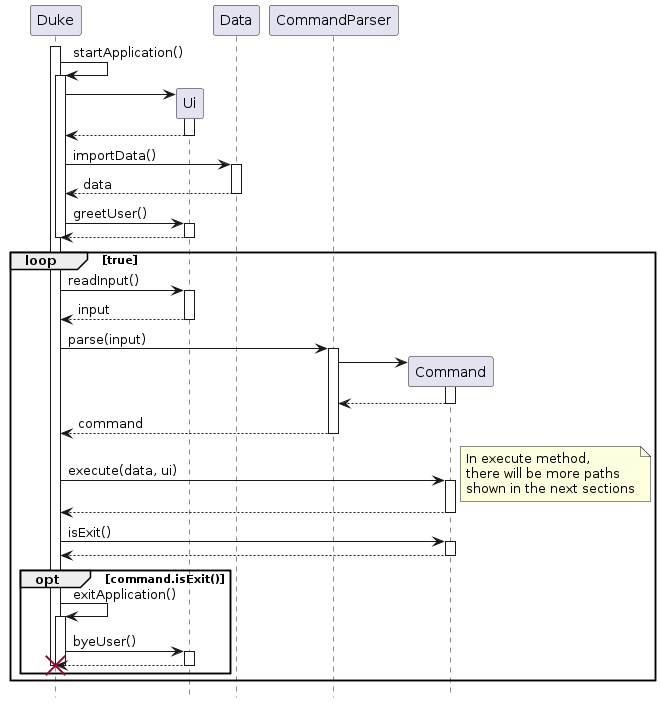
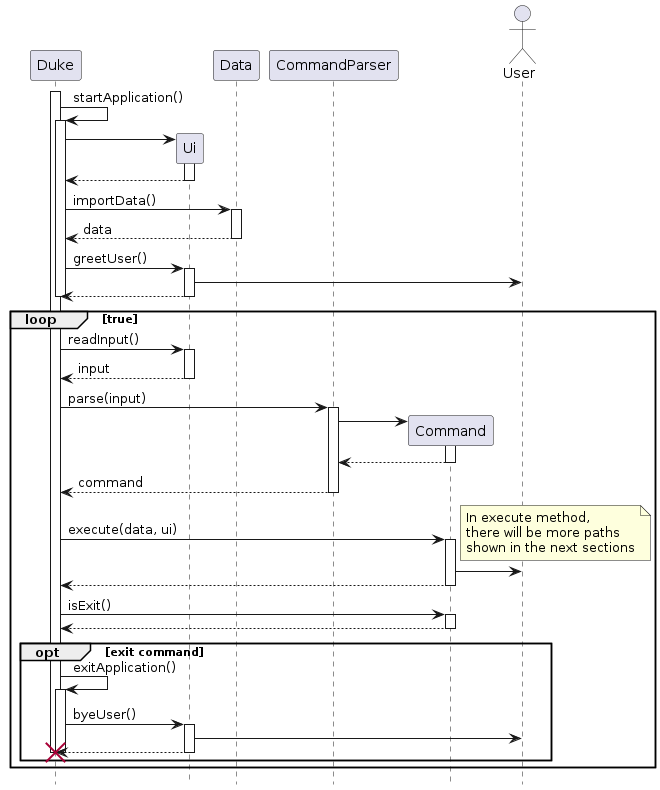
Update developer guide and diagrams

diff --git a/src/main/java/seedu/duke/command/CommandParser.java b/src/main/java/seedu/duke/command/CommandParser.java
@@ -37,29 +37,7 @@ public class CommandParser {
         CommandEnum commandName = getCommandName(input);
 
         // Assign the command class based on the command input by the user.
-        Command command;
-        switch (commandName) {
-        case BUDGET:
-            command = new BudgetCommand();
-            break;
-        case DEPOSIT:
-            command = new DepositCommand();
-            break;
-        case EXPENSE:
-            command = new ExpenseCommand();
-            break;
-        case STATS:
-            command = new StatsCommand();
-            break;
-        case EXIT:
-            command = new ExitCommand();
-            break;
-        case HELP:
-            command = new HelpCommand();
-            break;
-        default:
-            throw new CommandInvalidException();
-        }
+        Command command = getCommand(commandName);
 
         // For commands that do not have any action
         if (command.getActions().length == 0) {
@@ -94,6 +72,41 @@ public class CommandParser {
         } catch (IllegalArgumentException err) {
             throw new CommandInvalidException();
         }
+    }
+
+    /**
+     * Gets the command object from CommandEnum.
+     * 
+     * @param commandName CommandEnum from getCommandName
+     * @return command object from the valid CommandEnum given
+     * @throws CommandInvalidException if the CommandEnum given is not valid
+     */
+    private static Command getCommand(CommandEnum commandName) throws CommandInvalidException  {
+        Command command;
+        switch (commandName) {
+        case BUDGET:
+            command = new BudgetCommand();
+            break;
+        case DEPOSIT:
+            command = new DepositCommand();
+            break;
+        case EXPENSE:
+            command = new ExpenseCommand();
+            break;
+        case STATS:
+            command = new StatsCommand();
+            break;
+        case EXIT:
+            command = new ExitCommand();
+            break;
+        case HELP:
+            command = new HelpCommand();
+            break;
+        default:
+            throw new CommandInvalidException();
+        }
+
+        return command;
     }
 
     /**

diff --git a/src/main/java/seedu/duke/action/DepositAction.java b/src/main/java/seedu/duke/action/DepositAction.java
@@ -79,16 +79,6 @@ public class DepositAction {
         depositUi.printListDeposits(previousDeposits, currentDeposits);
     }
 
-    public void findDeposit(String keyword) {
-        ArrayList<Deposit> depositsWithKeyword = new ArrayList<>();
-        for (Deposit deposit : this.deposits) {
-            if (deposit.getName().contains(keyword)) {
-                depositsWithKeyword.add(deposit);
-            }
-        }
-        depositUi.printFindDeposits(depositsWithKeyword);
-    }
-
     //@@author pinyoko573
     /**
      * Filter and sort the deposits by date.
@@ -123,7 +113,7 @@ public class DepositAction {
     public void findDeposits(String name) {
         ArrayList<Deposit> filteredDeposits = new ArrayList<Deposit>();
         for (Deposit d : deposits) {
-            if (d.getName().toLowerCase().contains(name)) {
+            if (d.getName().toLowerCase().contains(name.toLowerCase())) {
                 filteredDeposits.add(d);
             }
         }

diff --git a/src/main/java/seedu/duke/action/ExpenseAction.java b/src/main/java/seedu/duke/action/ExpenseAction.java
@@ -135,7 +135,7 @@ public class ExpenseAction {
     public void findExpenses(String name) {
         ArrayList<Expense> filteredExpenses = new ArrayList<Expense>();
         for (Expense e : expenses) {
-            if (e.getName().contains(name)) {
+            if (e.getName().toLowerCase().contains(name.toLowerCase())) {
                 filteredExpenses.add(e);
             }
         }

diff --git a/docs/DeveloperGuide.md b/docs/DeveloperGuide.md
@@ -12,8 +12,6 @@ necessary for them so that they can realize their actual spending and achieve fi
 
 ## Design
 
-{Describe the design and implementation of the product. Use UML diagrams and short code snippets where applicable.}
-
 ### General Overview
 
 Below is an architectural diagram that describes the overview of how BudgetBuddy works.
@@ -27,12 +25,13 @@ in Json format to update the storage. This process continues until the user exit
 
 ### Main Component
 
-![MainSeq.png](images/MainSequence.png)
+![MainSequence.png](images/MainSequence.png)
 
-In the main (Duke) class, the main method first calls startApplication() which initalizes the Log Manager for logging (
-disabled if in production stage) and Ui object for printing output messages. After initialized, it will then attempt to
+**This diagram only shows the main overview of the application. You can refer to other components for more information.**
+
+In the main class, the main method first calls startApplication() which initalizes the Log Manager for logging (disabled in production stage) and Ui object for printing output messages. After initialized, it will then attempt to
 import the user's data from `data.json`. If there is no file, it will initalize a blank data. If importing fails, the
-application will print an error message and exit with code 1. Once done, it will greet the user with a message.
+application will print an error message and terminate. Once done, it will greet the user and display the budget progress (for returning users).
 
 The application then runs an infinite loop to take in and execute commands, until when the inputs `exit` to exit the
 application. After which, it will output a bye message and exits the application safely.
@@ -44,44 +43,61 @@ application. After which, it will output a bye message and exits the application
 The command consists of three components: Enum CommandEnum, Abstract class Command and Class CommandParser. Each of them
 plays a role in retrieving the commands input by the user and redirecting to the correct components.
 
+For every command that the user wants to execute, the input of the command must be in this format as follows:
+> `(command) (action) (parameters) [optional parameters]`
+
+An example of a command can be seen in the user guide.
+
+For each parameter, the type of value must either be: `integer`, `double`, `date`, or `string`, depending on the parameter's specification.
+- integer: Input must be a valid integer.
+- double: Input must be a valid double that is positive, must not contain alphabet and at most 2 decimal places.
+- date: Input must be a valid date in the format `DD-MM-YYYY`, and year must be in 4 digits.
+- string: Input can be in any alphanumeric but at most 30 characters.
+
+Note that the value must not contain any slash (`/`), as it interferes with the parameter format.
+
 #### CommandEnum
 
-The CommandEnum Enum contains all the commands that are available in the application.
-These are the only commands that can be input in the command line.
+The Enum class CommandEnum contains all the commands that are available in the application, as shown in the diagram in Command Component. These are the commands that can only be input in the command line.
 
 #### Command
 
-The abstract class Command extends to several commands (eg `BudgetCommand`, `DepositCommand`, `ExpenseCommand`) and
-contains abstract methods execute() and isExit().
-The execute() method is executed from main, where it will go to the action class (eg `BudgetAction`) and run the
-requested action such as `add`.
-After execute() from main, isExit() controls the termination of BudgetBuddy by returning a boolean.
+The abstract class Command extends to several command classes (e.g. `BudgetCommand`, `DepositCommand`, `ExpenseCommand`) and contains abstract (execute() and isExit()) and normal methods.
+
+Each child (extended) class has a list of actions for its command and the list of required & optional parameters for each action. These list of actions and parameters are to be used in the CommandParser class, where it validates the input given by the user. For commands such as Help and Exit, no actions and parameters are required.
+
+In the execute() method, the method is executed from main, where it will go to the action class (eg `BudgetAction`) and run the requested action such as `add` along with the required & optional parameters.
+After execute() is done, isExit() controls the termination of the application by returning a boolean.
+
+**There are some variables and methods that are not shown in the class diagram for easier readability.**
 
 #### CommandParser
 
 ![CommandParserSequence.png](images/CommandParserSequence.png)
 
-The `CommandParser` class takes in an input from the `Duke` class as seen in the sequence diagram above. It then parses
-the information
-to create a command of a specific type (eg `BudgetCommand`, `DepositCommand` , explained in the class diagram above)
-based
-the input.
+The `CommandParser` class is responsible for validating the input given by the user, which in return will pass a Command object (containing the user's requested action) that can be executed.
+
+The parse() function first checks the command name, which will return the list of actions that are available if the command is valid. Then, it will retrieve the action name and see if it matches in the list of actions. **(Note that commands such as Help and Exit do not have any action, which the command will be returned immediately.)**
+
+After verifying that the action exists, it will then verify all the parameters that are needed to execute.
+
+In required parameters, each parameter must have a value. Whereas for optional parameters, the user can choose to input values for none, some, or all of the optional parameters. When the value of the parameter does not match the parameter type, it will stop the parsing process and return an exception.
+
+**Command and action names are not case sensitive, but values are. Also, it is possible to rearrange the order of parameters.**
 
 ## Product scope
 
 ### Item Component
 
-The main 3 classes of Duke are the `budget` , `expense` and `deposit` class. Users are able to add, store and visualise
-the date relate to each
-of these classes. Each of these classes are modelled as an `Item`.
+The main 4 classes of BudgetBuddy are the `budget` , `deposit`, `expense` and `stats` class. Users are able to add, store and visualise the date relate to each of these classes. Each of these classes are modelled as an `Item`.
 
-![ItemClasses.png](images/ItemClasses.png)
+![Item.png](images/Item.png)
 
 ### Budget Component
 
 #### BudgetCommand Class
 
-The `BudgetCommand` class contains methods that are related to the `Budget` function of Duke. Users are able to create
+The `BudgetCommand` class contains methods that are related to the `Budget` function. Users are able to create
 new budgets, which are stored in a budget list. The category word from the user's input is taken from the first word of
 the users input,
 and the second word of the users input is the action word. The first word is processed through the `CommandParser`
@@ -206,7 +222,13 @@ separate classes for each part of the Stats Feature, which includes StatsAction,
 
 #### Exception Component
 
+For invalid commands and application errors (such as file), BudgetBuddy will display an error message which requires the user to rectify his/her input or do something, including restarting the application. 
+
 #### File IO Component
+
+The input and output of a file is handled using Gson, a third-party plugin that can help to read/write .json file in the Json format. The data file `data.json` (default) is created under the directory that the user is running at after an action is executed in the application. If the application finds the file to be blank, or the format of json is corrupted, it prompts the user to manually delete the file before starting the application.
+
+**Therefore, It is not recommended for users to edit the file manually.**
 
 ## Appendix A: User Stories
 
